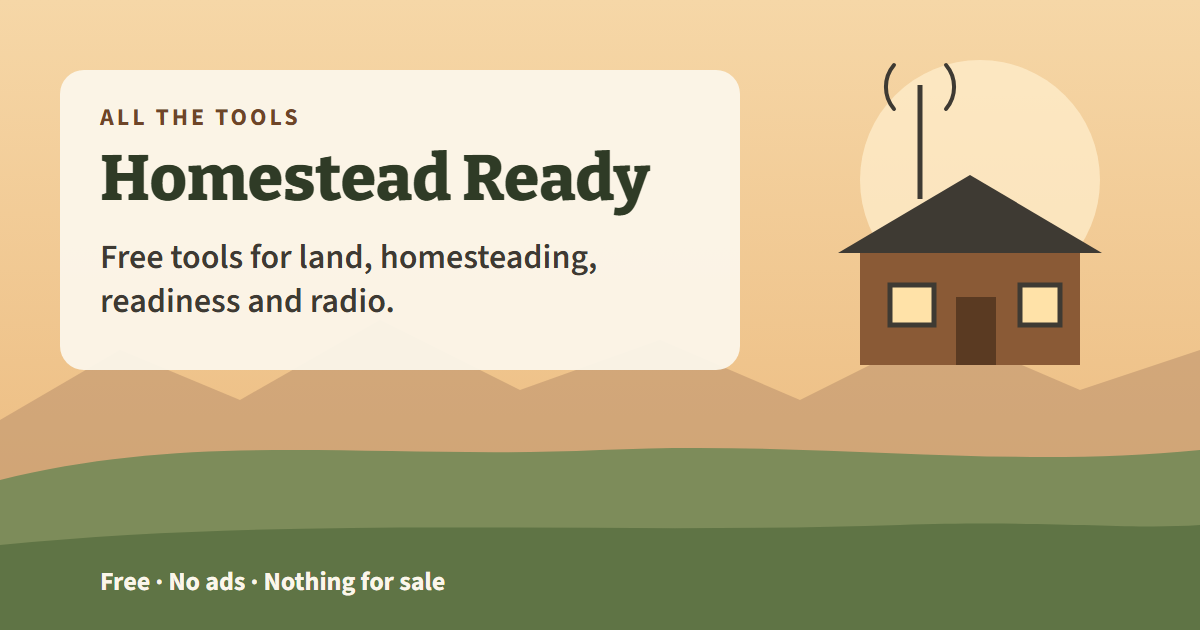
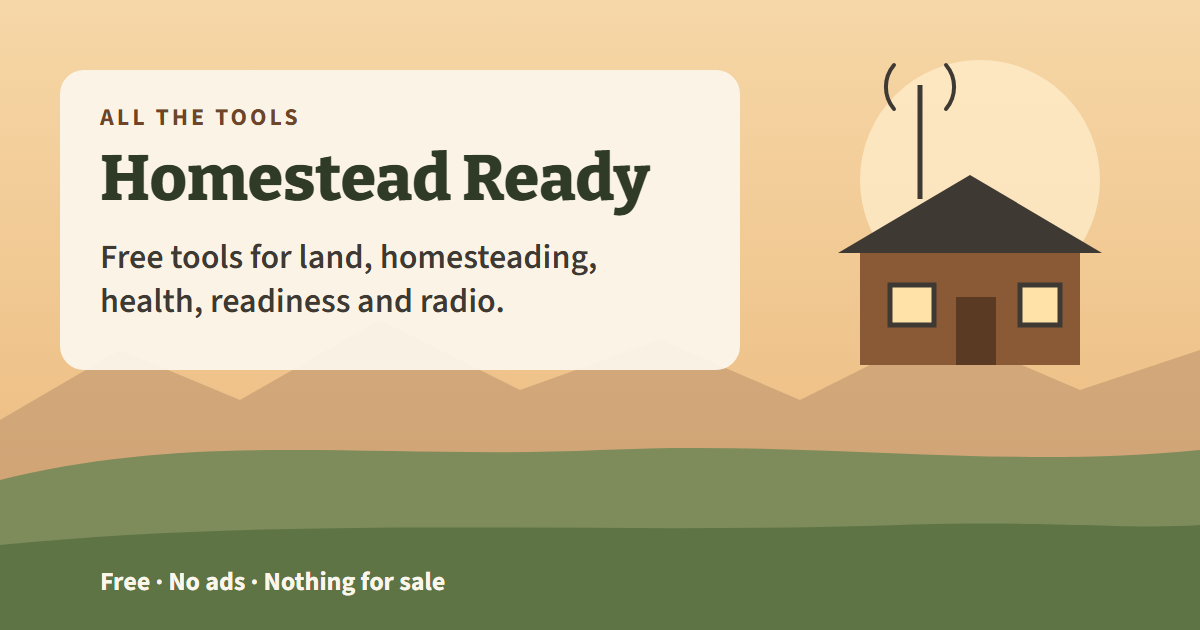
Add Steadfast Health, and health as a theme
A Steadfast Health card after the calculator, and health in the
subtitle, the intro, the descriptions and the link preview picture.
Being healthy and strong is part of being ready.

Changed region(s): [[0.0925, 0.4524, 0.4317, 0.5127]]

diff --git a/index.html b/index.html
@@ -4,11 +4,11 @@
 <meta charset="utf-8">
 <meta name="viewport" content="width=device-width, initial-scale=1">
 <title>Homestead Ready</title>
-<meta name="description" content="Free tools for finding land, planning a homestead, getting your household ready, and learning radio. No ads, nothing for sale.">
+<meta name="description" content="Free tools for finding land, planning a homestead, getting your household ready, staying healthy and strong, and learning radio. No ads, nothing for sale.">
 <meta property="og:type" content="website">
 <meta property="og:url" content="https://homesteadready.org/">
 <meta property="og:title" content="Homestead Ready">
-<meta property="og:description" content="Free tools for land, homesteading, readiness and radio. No ads, nothing for sale.">
+<meta property="og:description" content="Free tools for land, homesteading, health, readiness and radio. No ads, nothing for sale.">
 <meta property="og:image" content="https://homesteadready.org/og-image.png">
 <meta property="og:image:width" content="1200">
 <meta property="og:image:height" content="630">
@@ -99,13 +99,13 @@ footer p{margin:4px 0}
     <g transform="translate(1270 460)"><rect width="70" height="80" rx="10" fill="#9aa7ab" stroke="#3e3a33" stroke-width="4"/><path d="M0 26H70M0 54H70" stroke="#3e3a33" stroke-width="3"/></g>
     <g stroke="#6e4528" stroke-width="7" stroke-linecap="round"><path d="M820 550H1500"/><path d="M820 580H1500"/><path d="M840 530V600"/><path d="M940 530V600"/><path d="M1040 530V600"/><path d="M1140 530V600"/><path d="M1240 530V600"/><path d="M1340 530V600"/><path d="M1440 530V600"/></g>
   </svg>
-  <div class="title"><div class="box"><h1>Homestead Ready</h1><p>LAND · HOMESTEAD · READINESS · RADIO</p></div></div>
+  <div class="title"><div class="box"><h1>Homestead Ready</h1><p>LAND · HOMESTEAD · HEALTH · READINESS · RADIO</p></div></div>
 </header>
 
 <main class="wrap">
   <section class="intro">
     <h2>Free tools for people who'd rather be ready than worried</h2>
-    <p>Find land worth owning. Plan a homestead one step at a time. Get your household ready for hard times. Learn radio so you can talk when the phones can't.</p>
+    <p>Find land worth owning. Plan a homestead one step at a time. Get your household ready for hard times. Get healthy and strong enough to do the work. Learn radio so you can talk when the phones can't.</p>
     <p>You don't need money, land or experience to start. You need one small step this week.</p>
     <ul class="facts" aria-label="What to expect">
       <li>Free, and they stay free</li>
@@ -160,6 +160,13 @@ footer p{margin:4px 0}
       <p>What it costs to set up a place in the country, and what it costs each year to keep it running.</p>
       <p class="meta">One page. Every default traced to a public source.</p>
       <a class="btn" href="https://wcwilkins2025.github.io/homestead-cost-calculator/" rel="noopener">Open the calculator</a>
+    </article>
+    <article class="tool">
+      <span class="tag">Health</span>
+      <h3>Steadfast Health</h3>
+      <p>Meal plans, a shopping list, weigh-ins, blood pressure and a workout log, for getting to a goal weight on a low-carb, protein-first diet.</p>
+      <p class="meta">Free account. Works on your phone like an app. Bring your own AI coach, or skip it.</p>
+      <a class="btn" href="https://steadfasthealth.org" rel="noopener">Open Steadfast</a>
     </article>
   </div>
 
